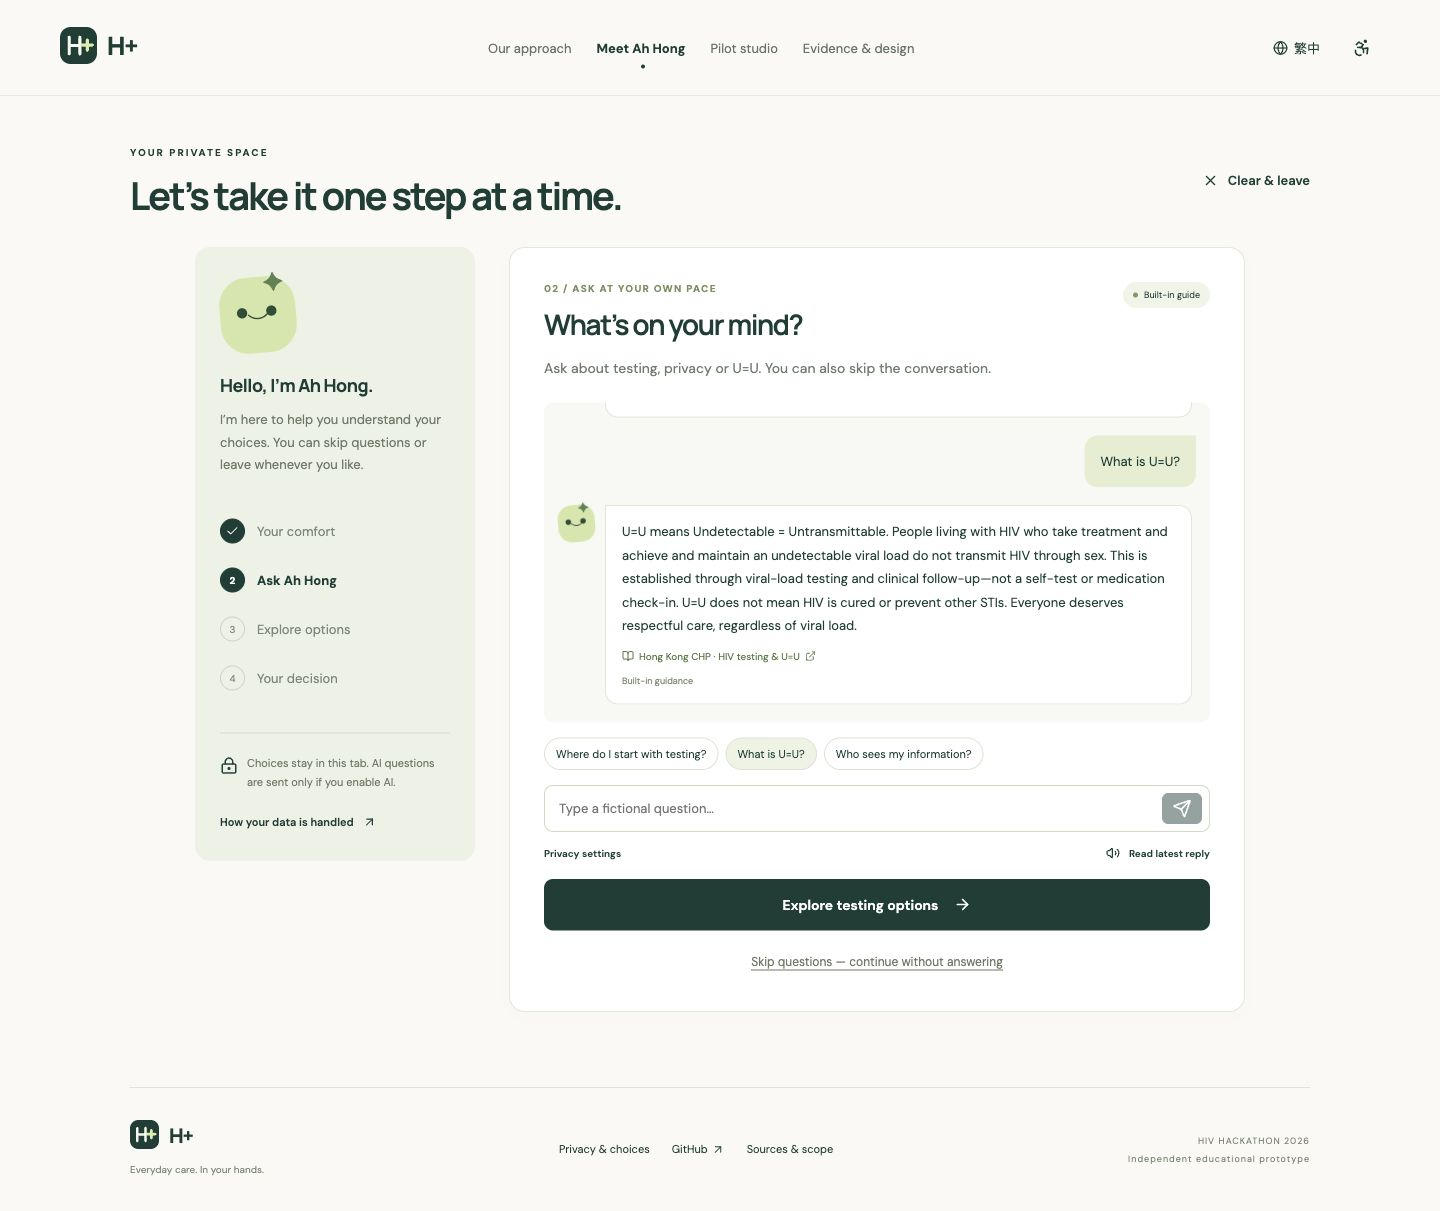
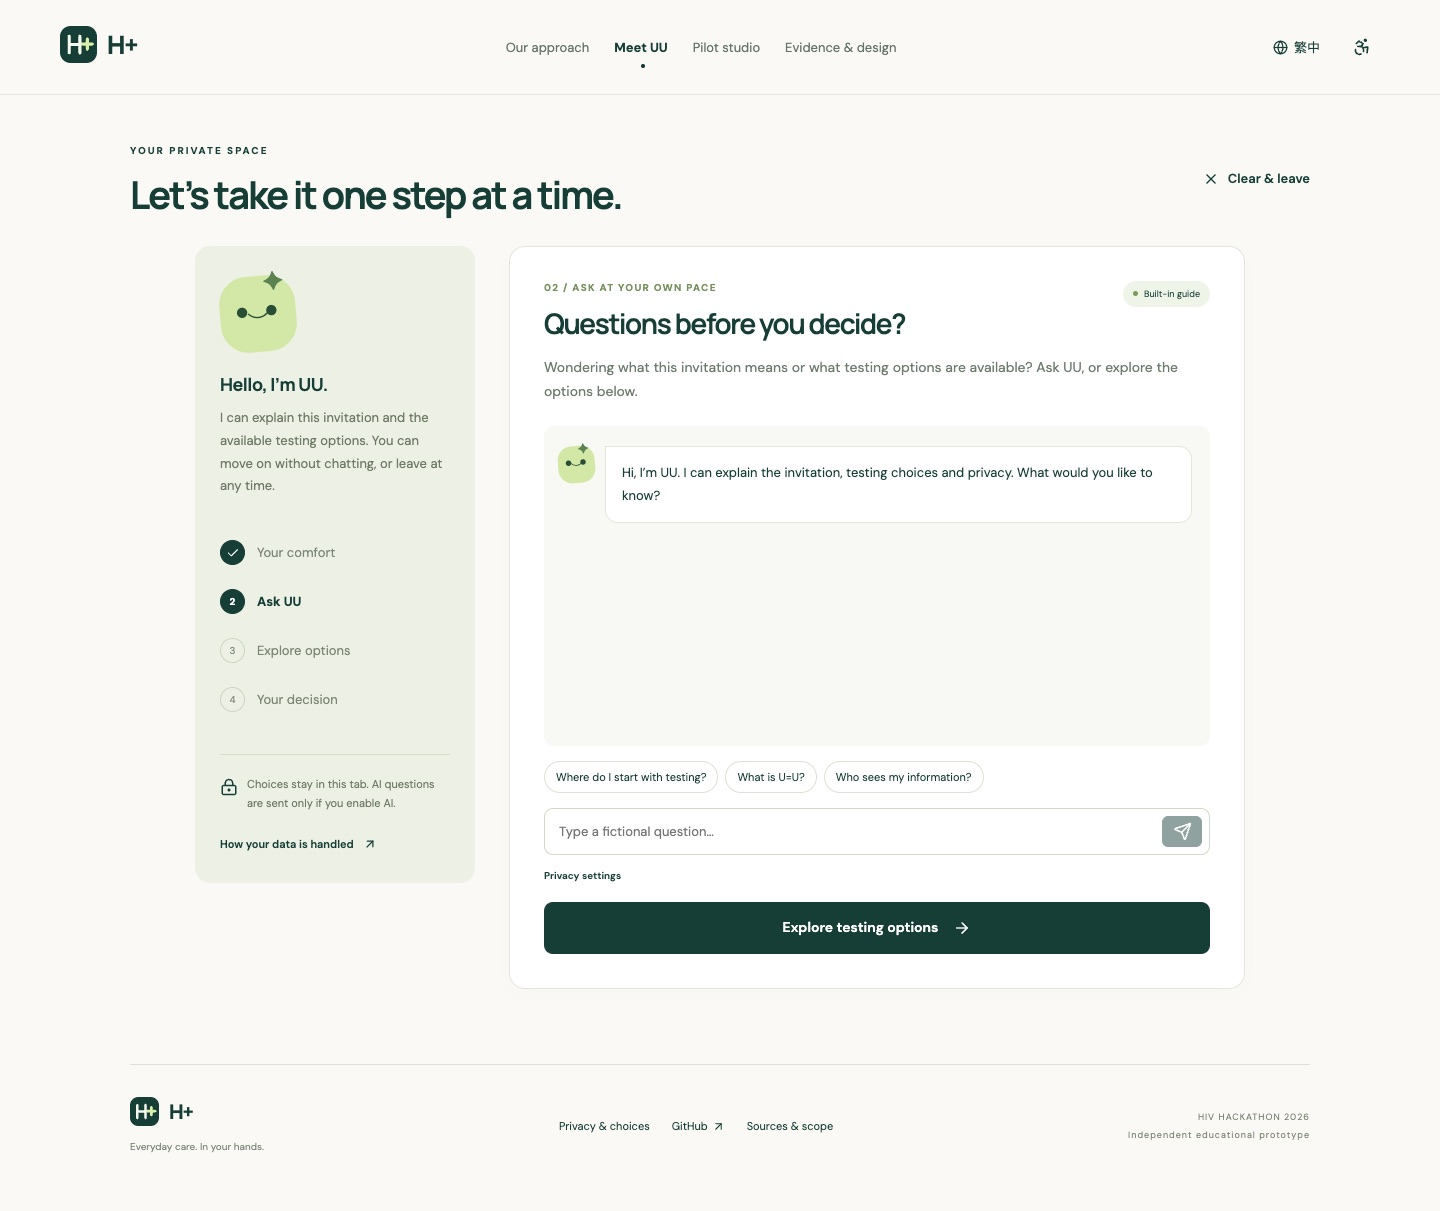
Rename guide to UU and align journey copy with invitation

diff --git a/src/App.tsx b/src/App.tsx
@@ -252,7 +252,7 @@ function App() {
   }
   const steps = [
     t("Your comfort", "你的選擇"),
-    t("Ask Ah Hong", "問問阿康"),
+    t("Ask UU", "問問悠悠"),
     t("Explore options", "了解選項"),
     t("Your decision", "自主決定"),
   ];
@@ -288,7 +288,7 @@ function App() {
               className={page === "journey" ? "active" : ""}
               onClick={() => go("journey")}
             >
-              {t("Meet Ah Hong", "認識阿康")}
+              {t("Meet UU", "認識悠悠")}
             </button>
             <button
               className={page === "impact" ? "active" : ""}
@@ -352,13 +352,13 @@ function App() {
                 </h1>
                 <p className="hero-description">
                   {t(
-                    "Good health starts with a conversation. Explore HIV testing at your own pace, with a friendly guide and choices that stay yours.",
-                    "健康，由一次安心對話開始。跟阿康慢慢了解 HIV 檢測，每一步，都由你選擇。",
+                    "A community invitation gives you a private way to explore HIV testing. UU helps you understand the options; you decide what happens next.",
+                    "一張社區邀請，讓你私下了解 HIV 檢測。悠悠幫你看清選項，下一步由你決定。",
                   )}
                 </p>
                 <div className="hero-actions">
                   <button className="button primary" onClick={start}>
-                    {t("Have a chat with Ah Hong", "與阿康聊聊")}
+                    {t("Explore with UU", "與悠悠了解選項")}
                     <ArrowUpRight size={20} />
                   </button>
                   <button
@@ -395,7 +395,7 @@ function App() {
                   <div className="phone-head">
                     <Mascot small />
                     <div>
-                      <strong>{t("Ah Hong", "街坊阿康")}</strong>
+                      <strong>{t("UU", "悠悠")}</strong>
                       <small>
                         {t("Your community health guide", "你的社區健康嚮導")}
                       </small>
@@ -408,8 +408,8 @@ function App() {
                     </div>
                     <div className="mock-bubble">
                       {t(
-                        "Hello, I’m Ah Hong 👋 What would help you feel more comfortable today?",
-                        "你好，我係阿康 👋 今日有咩想慢慢了解？",
+                        "Hi, I’m UU 👋 Did this invitation leave you with a question?",
+                        "你好，我係悠悠 👋 呢張邀請有咩想問？",
                       )}
                     </div>
                     <div className="mock-bubble user">
@@ -500,16 +500,16 @@ function App() {
                     <MessageCircle />,
                     t("A conversation, on your terms", "按你的意願，開始對話"),
                     t(
-                      "Ask questions, skip what feels personal, and understand your choices with Ah Hong.",
-                      "問你想知的，跳過不想答的，跟阿康了解自己的選項。",
+                      "Ask UU what this invitation means, or go straight to the testing options. No personal history is required.",
+                      "可以問悠悠呢張邀請有咩意思，亦可以直接睇檢測選項，毋須交代個人經歷。",
                     ),
                   ],
                   [
                     <Heart />,
                     t("A next step you choose", "自主選擇下一步"),
                     t(
-                      "Explore self-testing or professional support. Review every detail before you share.",
-                      "了解自測或專業支援；分享前，先看清楚每一項資料。",
+                      "Compare self-testing with professional support, then review a sample next step before you decide.",
+                      "比較自測與專業支援，再看看下一步的模擬安排，由你決定。",
                     ),
                   ],
                 ].map(([icon, title, body], i) => (
@@ -556,7 +556,7 @@ function App() {
                     go("journey");
                   }}
                 >
-                  {t("Understand U=U with Ah Hong", "與阿康了解 U=U")}
+                  {t("Understand U=U with UU", "與悠悠了解 U=U")}
                   <ArrowRight size={17} />
                 </button>
               </div>
@@ -596,11 +596,11 @@ function App() {
               <aside className="journey-sidebar">
                 <div className="guide-profile">
                   <Mascot />
-                  <h3>{t("Hello, I’m Ah Hong.", "你好，我係阿康。")}</h3>
+                  <h3>{t("Hello, I’m UU.", "你好，我係悠悠。")}</h3>
                   <p>
                     {t(
-                      "I’m here to help you understand your choices. You can skip questions or leave whenever you like.",
-                      "我會幫你了解選擇。你可以跳過問題，或隨時離開。",
+                      "I can explain this invitation and the available testing options. You can move on without chatting, or leave at any time.",
+                      "我可以解釋呢張邀請同檢測選項。你唔使傾偈都可以繼續，亦可隨時離開。",
                     )}
                   </p>
                 </div>
@@ -723,7 +723,7 @@ function App() {
                       className="button primary full"
                       onClick={() => next(1)}
                     >
-                      {t("Continue to Ah Hong", "開始與阿康對話")}
+                      {t("Continue to UU", "開始與悠悠對話")}
                       <ArrowRight size={18} />
                     </button>
                   </>
@@ -735,7 +735,7 @@ function App() {
                         <span className="step-label">
                           02 / {t("ASK AT YOUR OWN PACE", "按你的步伐，慢慢問")}
                         </span>
-                        <h2>{t("What’s on your mind?", "有咩想了解？")}</h2>
+                        <h2>{t("Questions before you decide?", "決定之前，有咩想問？")}</h2>
                       </div>
                       <span className="status-badge">
                         <span />
@@ -746,8 +746,8 @@ function App() {
                     </div>
                     <p className="muted">
                       {t(
-                        "Ask about testing, privacy or U=U. You can also skip the conversation.",
-                        "可以問檢測、私隱或 U=U，也可以直接跳過對話。",
+                        "Wondering what this invitation means or what testing options are available? Ask UU, or explore the options below.",
+                        "想知道呢張邀請有咩意思，或者檢測有咩選擇？問悠悠，亦可以直接睇下面嘅選項。",
                       )}
                     </p>
                     <div className="chat-log" aria-live="polite">
@@ -755,8 +755,8 @@ function App() {
                         <Mascot small />
                         <div className="message-content">
                           {t(
-                            "Hello! There’s no right or wrong question. What would help you feel ready to take a next step?",
-                            "你好！有問題就可以問。你想先了解邊一方面，再決定下一步？",
+                            "Hi, I’m UU. I can explain the invitation, testing choices and privacy. What would you like to know?",
+                            "你好，我係悠悠。我可以解釋呢張邀請、檢測選擇同私隱安排。你想先知邊樣？",
                           )}
                         </div>
                       </div>
@@ -812,8 +812,8 @@ function App() {
                       {busy && (
                         <div className="thinking">
                           {t(
-                            "Ah Hong is finding the right information…",
-                            "阿康正尋找相關資訊……",
+                            "UU is finding the right information…",
+                            "悠悠正尋找相關資訊……",
                           )}
                         </div>
                       )}
@@ -897,19 +897,6 @@ function App() {
                     >
                       {t("Explore testing options", "了解檢測選項")}
                       <ArrowRight size={18} />
-                    </button>
-                    <button
-                      className="skip-step"
-                      onClick={() => {
-                        run.current++;
-                        setBusy(false);
-                        next(2);
-                      }}
-                    >
-                      {t(
-                        "Skip questions — continue without answering",
-                        "跳過問題，繼續了解",
-                      )}
                     </button>
                   </>
                 )}
@@ -1034,7 +1021,7 @@ function App() {
                       04 / {t("YOUR DECISION", "由你決定")}
                     </span>
                     <h2>
-                      {t("See it before you share it.", "分享之前，先看清楚。")}
+                      {t("Review a sample next step.", "先看看下一步。")}
                     </h2>
                     <p className="muted">
                       {t(

diff --git a/index.html b/index.html
@@ -7,7 +7,7 @@
     <title>H+ · A little support. A step forward.</title>
     <meta
       name="description"
-      content="A community-first HIV testing navigation prototype. Meet Ah Hong, explore your choices, and stay in control."
+      content="A community-first HIV testing navigation prototype. Meet UU, explore your choices, and stay in control."
     />
     <meta
       property="og:title"

diff --git a/README.md b/README.md
@@ -23,7 +23,7 @@
 
 ## Why H+
 
-**H+ means HIV plus one test and HIV plus Health.** Ah Hong (阿康) carries the idea of health in a familiar Cantonese name.
+**H+ means HIV plus one test and HIV plus Health.** UU (悠悠) is the guide who helps visitors explore the invitation and their testing choices.
 
 An everyday pharmacy visit can be an opportunity to learn about HIV testing—without a shopping profile, an individual risk label, or pressure to participate.
 
@@ -36,9 +36,9 @@ Hong Kong CHP reported that around half of newly reported cases were late presen
 ## Try it in 90 seconds
 
 1. Open the [live experience](https://h-plus.stephenovo.workers.dev) and view the community invitation.
-2. Meet **Ah Hong**. Choose English or Traditional Chinese, larger text, and whether to enable AI.
+2. Meet **UU (悠悠)**. Choose English or Traditional Chinese, larger text, and whether to enable AI.
 3. Ask “What is U=U?” or “Who sees my information?” Every answer identifies its source or explains this prototype’s own behaviour.
-4. Explore self-testing and provider-based testing. Questions can be skipped.
+4. Explore self-testing and provider-based testing directly; chatting is optional.
 5. Edit the sample summary, remove a field, and explicitly confirm the demo plan.
 6. Open [Pilot studio](https://h-plus.stephenovo.workers.dev/#impact) to explore **clearly labelled synthetic scenarios**.
 
@@ -49,7 +49,7 @@ Use fictional questions only. No booking, kit dispatch or real referral occurs.
 ```mermaid
 flowchart LR
     A["Same community invitation\nfor adult customers"] --> B["Private preferences\nAI off by default"]
-    B --> C["Ask Ah Hong\nor skip questions"]
+    B --> C["Ask UU\nor explore options directly"]
     C --> D["Understand testing options"]
     D --> E["Review and edit\na demo summary"]
     E --> F["Choose an official service\non its own website"]
@@ -61,7 +61,7 @@ flowchart LR
 | --- | --- |
 | **Community invitation** | Printable receipt-style invitation with a QR code to the live journey |
 | **Private preferences** | English / Traditional Chinese, larger text, optional AI, clear-session control |
-| **Ah Hong conversation** | Live Workers AI topic matching; fixed, source-linked answers; built-in guidance without AI |
+| **UU conversation** | Live Workers AI topic matching; prepared replies with sources for health information; built-in guidance without AI |
 | **Priority guidance** | Deterministic routing for recognised recent-exposure and reactive-result questions |
 | **U=U education** | Accurate sexual-transmission scope; treatment and sustained viral-load follow-up conditions |
 | **Service choices** | Self-testing and provider-based options, official links, no artificial age-based restriction |
@@ -75,7 +75,7 @@ flowchart LR
 
 <details>
   <summary><strong>See the Traditional Chinese mobile experience</strong></summary>
-  <p align="center"><img src="docs/assets/mobile-zh.jpg" width="330" alt="Traditional Chinese mobile conversation with Ah Hong" /></p>
+  <p align="center"><img src="docs/assets/mobile-zh.jpg" width="330" alt="Traditional Chinese mobile conversation with UU" /></p>
 </details>
 
 <details>
@@ -148,7 +148,7 @@ npm run check   # both
 
 The tests cover consent rejection, same-origin enforcement, oversized input, rate limits, unsafe model prose, bilingual content, priority routing and explicit fallback. GitHub Actions runs them and the production build on pushes and pull requests.
 
-The deployed interface was also checked at **1440 px desktop and 390 px mobile**: English and Traditional Chinese navigation, live AI replies, skipped questions, choice gating, removing summary fields, confirmation, session clearing, modal dismissal and synthetic-scenario switching. See [verification notes](docs/VERIFICATION.md). Screenshots are captured from the running app, not design mockups.
+The deployed interface was also checked at **1440 px desktop and 390 px mobile**: English and Traditional Chinese navigation, live AI replies, direct access to testing options, choice gating, removing summary fields, confirmation, session clearing, modal dismissal and synthetic-scenario switching. See [verification notes](docs/VERIFICATION.md). Screenshots are captured from the running app, not design mockups.
 
 ## Repository map
 

diff --git a/docs/DEMO_GUIDE.md b/docs/DEMO_GUIDE.md
@@ -7,7 +7,7 @@ Use the public website with fictional questions. English is the default; select 
 | Time | Action | Suggested narration |
 | --- | --- | --- |
 | 0–15 s | Homepage → community invitation | “Some people never actively look for HIV services. We bring a transparent invitation into an everyday pharmacy visit, without inferring risk from purchases.” |
-| 15–30 s | Start journey → privacy preferences | “Ah Hong supports English and Chinese. AI is optional, and people can explore services without answering sensitive questions.” |
+| 15–30 s | Start journey → privacy preferences | “UU supports English and Chinese. AI is optional, and visitors can explore testing options without sharing a personal history.” |
 | 30–45 s | Ask “What is U=U?” | “The model identifies the topic. The answer comes from a source-linked library, with clear conditions and no individual diagnosis.” |
 | 45–60 s | Explore options → choose one | “The user sees both self-testing and professional support, and can check official arrangements before deciding.” |
 | 60–75 s | Review summary → remove a field → confirm | “People see exactly what a future referral could contain. This demo sends nothing to a clinic.” |
@@ -15,7 +15,7 @@ Use the public website with fictional questions. English is the default; select 
 
 ## Short Chinese narration
 
-「我們讓日常藥房接觸，成為一次知情、自願的 HIV 檢測機會。每個成年顧客收到相同邀請，不分析購物資料。進入阿康後，使用者可以選擇語言、是否使用 AI，也可以跳過問題。AI 幫助理解需求，答案來自附來源的內容。最後，使用者自行選擇服務，查看及修改摘要。現在的轉介是演示；真正試點會與服務機構共同落實。右邊的工作室展示我們將如何評估首次檢測與服務完成，而不是替個人打風險分數。」
+「我們讓日常藥房接觸，成為一次知情、自願的 HIV 檢測機會。每個成年顧客收到相同邀請，不分析購物資料。進入悠悠後，使用者可以選擇語言、是否使用 AI，也可以不聊天，直接了解檢測選項。AI 幫助辨識問題主題，健康資訊來自附來源的內容。最後，使用者自行選擇服務，查看及修改摘要。現在的轉介是演示；真正試點會與服務機構共同落實。右邊的工作室展示我們將如何評估首次檢測與服務完成，而不是替個人打風險分數。」
 
 ## Likely judge questions
 

diff --git a/docs/VERIFICATION.md b/docs/VERIFICATION.md
@@ -4,7 +4,7 @@ Checked on 10 November 2026 (Hong Kong time).
 
 ## Automated checks
 
-`npm test`: 14 passing Node tests.
+`npm test`: 18 passing Node tests.
 
 - English/Chinese priority routing precedes ordinary kit guidance.
 - Reactive self-test guidance distinguishes screening from diagnosis.
@@ -28,7 +28,8 @@ The live/local interfaces were inspected using the browser at 1440 px desktop an
 
 | Check | Observation |
 | --- | --- |
-| Homepage | Desktop and Traditional Chinese mobile layouts inspected |
+| Homepage | Desktop and Traditional Chinese mobile layouts inspected; guide name is UU / 悠悠 |
+| Conversation entry | Invitation-focused wording and direct access to testing options checked in both languages |
 | Mobile overflow | Document width equals viewport width at 390 px for checked journey pages |
 | AI off | U=U prompt returns labelled built-in guidance |
 | Live AI | English free-text U=U question returned `AI topic matching · source-based reply` |
